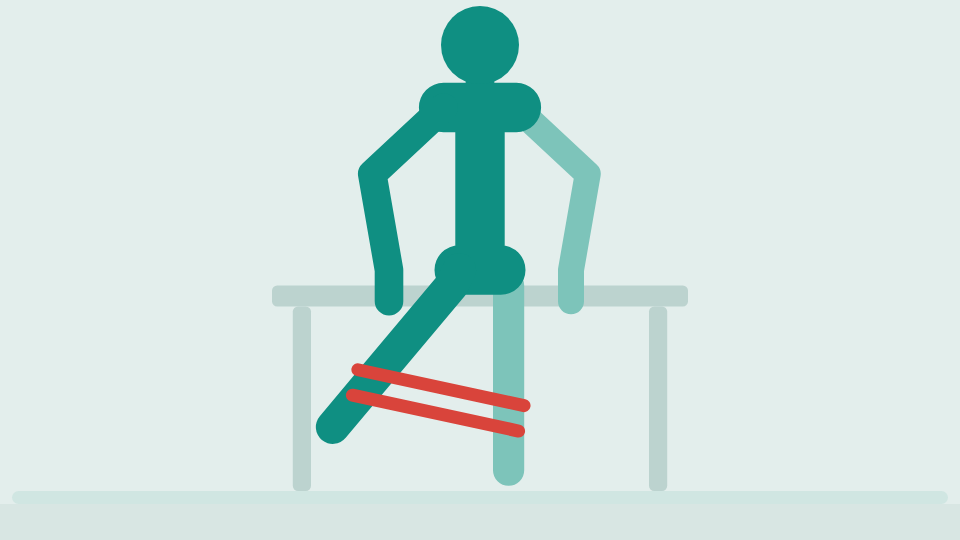
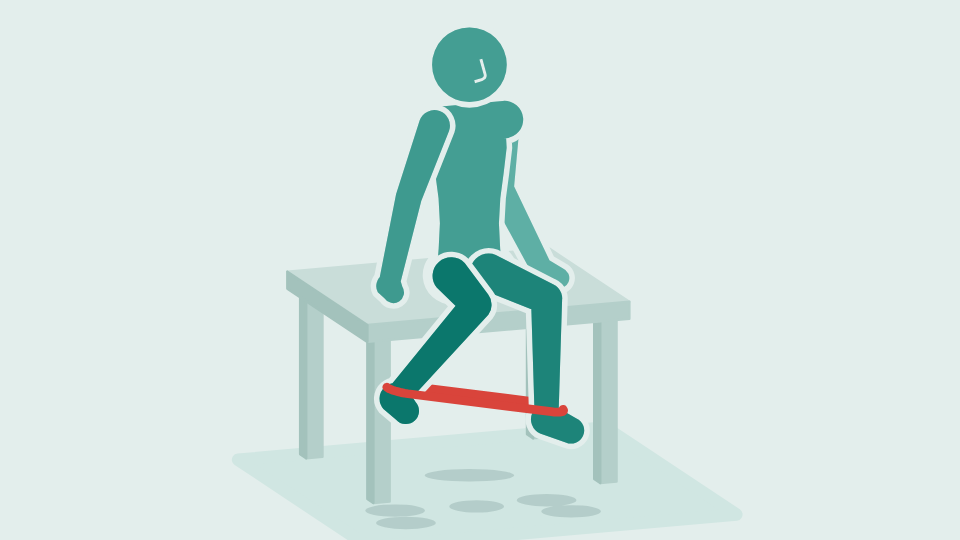
feat: add Seated Hip Internal Rotation exercise with mini band support and update related components

Changed region(s): [[0.2812, 0.0, 0.7188, 0.9778]]

diff --git a/src/lib/rig3d.ts b/src/lib/rig3d.ts
@@ -288,6 +288,12 @@ export type Clip3D = {
    * nose cut short.
    */
   nose?: false | 'drawIn';
+  /**
+   * A mini loop band around both ankles, or both knees, pulled tight between them: a loop around the
+   * outside of each leg and two strands across the gap (seated hip internal rotation). It's drawn in
+   * the strap's color, the strand in front over the legs and the one behind under them.
+   */
+  miniBand?: 'ankles' | 'knees';
 };
 
 export type HeldLimb = {
@@ -384,8 +390,10 @@ export type FigureFrame = {
   /** The body's parts, furthest from the camera first, which is the order to draw them in. */
   slots: FigureSlot[];
   shadow: string;
-  /** The clip's strap as a line to stroke, drawn over the figure. Empty without one. */
+  /** The clip's strap, and the front of its mini band, as a line to stroke, drawn over the figure. Empty without one. */
   strap: string;
+  /** The back of the clip's mini band, as a line to stroke, drawn under the figure. Empty without one. */
+  bandBehind: string;
   /** The clip's phone, drawn with the limb it's on. Empty paths without one. */
   phone: PhoneFrame;
   /** The dumbbell in each hand, drawn with its arm. Empty paths for a hand without one. */
@@ -1390,6 +1398,53 @@ export function strapPoints(skeleton: Skeleton, strap: NonNullable<Clip3D['strap
   ];
 }
 
+/** How far up the shin from the ankle a mini band around the ankles sits, and down the thigh from the knee one around the knees. */
+const MINI_BAND_ALONG = 10;
+/**
+ * How far a mini band keeps from the middle of each leg: past the leg's edge by half the band's own
+ * width, so it's drawn around the leg and not over it.
+ */
+const MINI_BAND_RADIUS = 14;
+/** How many straight pieces each half circle around a leg is drawn in. */
+const MINI_BAND_STEPS = 8;
+
+/**
+ * Where a mini loop band around both ankles or both knees runs in the room, as its two halves: each
+ * runs from the outside of one leg, around the side of it the camera sees or the side away, across
+ * the gap and around the other leg to its outside. The loop lies square to the legs, as near as one
+ * plane square to both can be, and stands clear of them, so it goes around them rather than across.
+ * The first half is the one nearer the camera.
+ */
+export function miniBandPoints(skeleton: Skeleton, view: Mat3, at: NonNullable<Clip3D['miniBand']>): [front: Vec3[], back: Vec3[]] {
+  'worklet';
+  const joint = at === 'ankles' ? 2 : 1;
+  const toward = at === 'ankles' ? 1 : 0;
+  const ring = (leg: readonly Vec3[]) => {
+    const up = unit(sub(leg[toward], leg[joint]), [0, 1, 0]);
+    return { middle: add(leg[joint], scaled(up, MINI_BAND_ALONG)), up };
+  };
+  const right = ring(skeleton.rightLeg);
+  const left = ring(skeleton.leftLeg);
+  // Across from the left leg to the right, and round the legs square to that and to the legs.
+  const across = unit(sub(right.middle, left.middle), skeleton.spineRight[0]);
+  let side = unit(cross(across, add(right.up, left.up)), skeleton.spineFront[0]);
+  // `side` faces the camera, so the first half is the near one.
+  if (project(view, side)[2] < 0) side = scaled(side, -1);
+  const half = (sign: number): Vec3[] => {
+    const points: Vec3[] = [];
+    for (let step = 0; step <= MINI_BAND_STEPS; step++) {
+      const angle = (step / MINI_BAND_STEPS) * (Math.PI / 2);
+      points.push(add(left.middle, add(scaled(across, -MINI_BAND_RADIUS * Math.cos(angle)), scaled(side, sign * MINI_BAND_RADIUS * Math.sin(angle)))));
+    }
+    for (let step = MINI_BAND_STEPS; step >= 0; step--) {
+      const angle = (step / MINI_BAND_STEPS) * (Math.PI / 2);
+      points.push(add(right.middle, add(scaled(across, MINI_BAND_RADIUS * Math.cos(angle)), scaled(side, sign * MINI_BAND_RADIUS * Math.sin(angle)))));
+    }
+    return points;
+  };
+  return [half(1), half(-1)];
+}
+
 /** A phone's size: about 15 by 7 by 1 cm, with a shin of 100 at about 40 cm. */
 export const PHONE = { length: 37, width: 18, depth: 3 };
 /** How far in from the phone's edge its screen starts. */
@@ -2011,6 +2066,7 @@ export function traceFigure(
     slots,
     shadow,
     strap: strapLine,
+    bandBehind: '',
     floor: '',
     phone: phoneShape(skeleton, view, phone, reading),
     dumbbells: {
@@ -2090,6 +2146,17 @@ function floorMarks(view: Mat3, travel: number, journey: number): string {
   return path;
 }
 
+/** Points in the room as a line on screen through them, to stroke. */
+function lineThrough(view: Mat3, points: readonly Vec3[]): string {
+  'worklet';
+  let line = '';
+  for (let i = 0; i < points.length; i++) {
+    const point = project(view, points[i]);
+    line += `${i === 0 ? 'M' : 'L'}${fixed(point[0])} ${fixed(point[1])}`;
+  }
+  return line;
+}
+
 /** The clip at a moment, drawn. */
 export function frameAt(clip: Clip3D, view: Mat3, timeMs: number): FigureFrame {
   'worklet';
@@ -2098,6 +2165,11 @@ export function frameAt(clip: Clip3D, view: Mat3, timeMs: number): FigureFrame {
   const skeleton = solvePose(clip.follow ? shiftedPose(pose, -travel) : pose);
   const behind = pose.behind ? (clip.behind ? [...clip.behind, ...pose.behind] : pose.behind) : clip.behind;
   const frame = traceFigure(skeleton, view, clip.highlight, clip.strap, clip.phone, clip.phone ? phoneReading(clip, skeleton) : undefined, clip.over, behind, clip.holds, clip.handsOnBody, clip.dumbbells, clip.nose ?? true);
+  if (clip.miniBand) {
+    const [front, back] = miniBandPoints(skeleton, view, clip.miniBand);
+    frame.strap += lineThrough(view, front);
+    frame.bandBehind = lineThrough(view, back);
+  }
   if (clip.follow) frame.floor = floorMarks(view, travel, travelOf(clip, clip.keyframes[clip.keyframes.length - 1].pose));
   return frame;
 }

diff --git a/src/lib/rig3d.test.ts b/src/lib/rig3d.test.ts
@@ -38,6 +38,7 @@ import {
   RESTING_COSSACK_SQUAT_3D,
   REVERSE_CLAMSHELLS_3D,
   REVERSE_SCORPION_3D,
+  SEATED_HIP_INTERNAL_ROTATION_3D,
   SEATED_PIKE_STRETCH_3D,
   SHOULDER_ABDUCTION_3D,
   SHOULDER_EXTERNAL_ROTATION_3D,
@@ -88,6 +89,7 @@ import {
   frameAt,
   framedJoints,
   HAND,
+  miniBandPoints,
   poseAt3,
   project,
   shiftedPose,
@@ -158,6 +160,13 @@ function angleAt(a: Vec3, b: Vec3, c: Vec3): number {
   const v = [c[0] - b[0], c[1] - b[1], c[2] - b[2]];
   const cos = (u[0] * v[0] + u[1] * v[1] + u[2] * v[2]) / (Math.hypot(...u) * Math.hypot(...v));
   return (Math.acos(Math.min(1, Math.max(-1, cos))) * 180) / Math.PI;
+}
+
+/** How far a point is from the nearest point on the line from `a` to `b`. */
+function distanceToSegment(point: Vec3, a: Vec3, b: Vec3): number {
+  const ab = [b[0] - a[0], b[1] - a[1], b[2] - a[2]];
+  const t = Math.max(0, Math.min(1, ((point[0] - a[0]) * ab[0] + (point[1] - a[1]) * ab[1] + (point[2] - a[2]) * ab[2]) / (ab[0] ** 2 + ab[1] ** 2 + ab[2] ** 2)));
+  return distance(point, [a[0] + ab[0] * t, a[1] + ab[1] * t, a[2] + ab[2] * t]);
 }
 
 /** How far a limb from `root` to `end` is turned from pointing straight down, in degrees. */
@@ -1654,6 +1663,54 @@ describe('3D clips', () => {
       previous = legs;
       expect(frameAt(clip, view, t).slots.find((slot) => slot.part === 'head')!.d.split('Z').filter((piece) => piece !== '')).toHaveLength(1);
     }
+  });
+
+  it('swings the right foot out to the side against a mini band round the ankles, the thigh turning in and the knee staying put, in seated hip internal rotation', () => {
+    const clip = SEATED_HIP_INTERNAL_ROTATION_3D;
+    expect(clip.miniBand).toBe('ankles');
+    const skeletons = samples(clip).map(solvePose);
+    const start = skeletons[0];
+    for (const { rightLeg, leftLeg, spine } of skeletons) {
+      // Sitting still, the left leg too, and the right knee stays where it is at 90°.
+      expect(distance(spine[0], start.spine[0])).toBeCloseTo(0);
+      leftLeg.forEach((joint, i) => expect(distance(joint, start.leftLeg[i])).toBeCloseTo(0));
+      expect(distance(rightLeg[1], start.rightLeg[1])).toBeCloseTo(0);
+      expect(angleAt(rightLeg[0], rightLeg[1], rightLeg[2])).toBeCloseTo(90, 0);
+    }
+    // Out, the right foot has swung away from the left one, out to the side, stretching the band.
+    const out = solvePose(clip.keyframes[clip.stillFrame].pose);
+    expect(out.rightLeg[2][2] - start.rightLeg[2][2]).toBeGreaterThan(40);
+    expect(distance(out.rightLeg[2], out.leftLeg[2])).toBeGreaterThan(distance(start.rightLeg[2], start.leftLeg[2]) + 40);
+    // Nothing changes places.
+    expect(new Set(drawOrders(clip)).size).toBe(1);
+  });
+
+  it('draws a mini band round both ankles: the half in front over the legs, the half behind under them, clear of the legs', () => {
+    const clip = SEATED_HIP_INTERNAL_ROTATION_3D;
+    const view = viewOf(clip.camera);
+    for (let t = 0; t <= durationOf(clip); t += 100) {
+      const skeleton = solvePose(poseAt3(clip, t));
+      const [front, back] = miniBandPoints(skeleton, view, 'ankles');
+      // The front half is nearer the camera than the back one.
+      const depth = (points: Vec3[]) => points.reduce((sum, point) => sum + project(view, point)[2], 0) / points.length;
+      expect(depth(front)).toBeGreaterThan(depth(back));
+      // Each half goes from the outside of the left leg round to the outside of the right one, and
+      // the two meet there, so the loop is closed.
+      expect(distance(front[0], back[0])).toBeCloseTo(0);
+      expect(distance(front[front.length - 1], back[back.length - 1])).toBeCloseTo(0);
+      // Every point stands clear of the shin it's round, past the shin's thickness at the ankle.
+      for (const point of [...front, ...back]) {
+        const nearest = Math.min(...[skeleton.rightLeg, skeleton.leftLeg].map((leg) => distanceToSegment(point, leg[1], leg[2])));
+        expect(nearest).toBeGreaterThan(10.5);
+      }
+      const frame = frameAt(clip, view, t);
+      expect(frame.strap).toMatch(/^M[-\d. ]+(L[-\d. ]+)+$/);
+      expect(frame.bandBehind).toMatch(/^M[-\d. ]+(L[-\d. ]+)+$/);
+    }
+    // A clip without one has neither.
+    const frame = frameAt(KNEE_TO_CHEST_3D, viewOf(KNEE_TO_CHEST_3D.camera), 0);
+    expect(frame.bandBehind).toBe('');
+    expect(frame.strap).toBe('');
   });
 
   it('folds to the floor, walks the hands out to a plank and the feet in after them, and stands up further along, the camera following, in inchworm', () => {

diff --git a/src/components/exercise-figure-3d.tsx b/src/components/exercise-figure-3d.tsx
@@ -210,6 +210,7 @@ export function ExerciseFigure3D({ clip, playing = true, paused = false }: { cli
   const frame = useDerivedValue(() => frameAt(clip, view, time.get()));
   const shadow = useAnimatedProps(() => ({ d: frame.get().shadow }));
   const strap = useAnimatedProps(() => ({ d: frame.get().strap }));
+  const bandBehind = useAnimatedProps(() => ({ d: frame.get().bandBehind }));
   const floor = useAnimatedProps(() => ({ d: frame.get().floor }));
 
   return (
@@ -234,10 +235,12 @@ export function ExerciseFigure3D({ clip, playing = true, paused = false }: { cli
             <Path d={stage.tape.marks} stroke={COLORS.tape.marks} strokeWidth={1.5} />
           </>
         )}
+        {/* The back of a mini band, under the legs, so it shows only between them. */}
+        {clip.miniBand && <AnimatedPath animatedProps={bandBehind} fill="none" stroke={COLORS.strap} strokeWidth={7} strokeLinejoin="round" strokeLinecap="round" />}
         {slots.map((index) => (
           <Slot key={index} frame={frame} index={index} trail={stage.trail} trailed={trailedPart(clip.trail)} phone={clip.phone !== undefined} dumbbells={clip.dumbbells !== undefined} />
         ))}
-        {clip.strap && <AnimatedPath animatedProps={strap} fill="none" stroke={COLORS.strap} strokeWidth={7} strokeLinejoin="round" strokeLinecap="round" />}
+        {(clip.strap || clip.miniBand) && <AnimatedPath animatedProps={strap} fill="none" stroke={COLORS.strap} strokeWidth={7} strokeLinejoin="round" strokeLinecap="round" />}
       </Svg>
       {clip.partner && <PartnerBadge />}
     </View>

diff --git a/src/data/exercise-animations-3d.ts b/src/data/exercise-animations-3d.ts
@@ -6012,3 +6012,29 @@ export const REVERSE_SCORPION_3D: Clip3D = {
   stillFrame: 1 + SCORPION_STEPS,
   keyframes: [{ ms: 0, pose: scorpionAt(1, 0) }, ...scorpionRep(1), ...scorpionRep(-1)],
 };
+
+// --- Seated hip internal rotation: on the edge of a table with a mini band around the ankles, one foot swings out to the side against it, the thigh turning in and the knee staying put ---
+
+/** The right foot out, the thigh turned in about as far as adults can (Hallaçeli 2014). */
+const SEATED_IR_OUT = seatedRotationAt(-HIP_ROTATION, 90);
+const SEATED_IR_IN = seatedRotationAt(0, 90);
+
+export const SEATED_HIP_INTERNAL_ROTATION_3D: Clip3D = {
+  view: '3d',
+  // From the front, where the shin's swing out to the side is flat on the screen and the band
+  // stretches across it, turned a little toward the moving leg and raised enough to see the table
+  // top the thighs rest on (as the hip rotation test).
+  camera: { yaw: 70, pitch: 14 },
+  highlight: ['rightLeg'],
+  scenery: TABLE,
+  miniBand: 'ankles',
+  // The foot out, the band stretched.
+  stillFrame: 2,
+  keyframes: [
+    { ms: 0, pose: SEATED_IR_IN },
+    { ms: 300, pose: SEATED_IR_IN },
+    { ms: 1200, pose: SEATED_IR_OUT },
+    { ms: 400, pose: SEATED_IR_OUT },
+    { ms: 1200, pose: SEATED_IR_IN },
+  ],
+};

diff --git a/src/data/exercises.ts b/src/data/exercises.ts
@@ -62,6 +62,7 @@ import {
   REVERSE_CLAMSHELLS_3D,
   REVERSE_SCORPION_3D,
   REVERSE_TABLETOP_3D,
+  SEATED_HIP_INTERNAL_ROTATION_3D,
   SEATED_PIKE_STRETCH_3D,
   SEATED_SHOULDER_EXTENSION_3D,
   SEATED_STRADDLE_SIDE_BEND_3D,
@@ -72,7 +73,6 @@ import {
 } from './exercise-animations-3d';
 
 import {
-  SEATED_HIP_INTERNAL_ROTATION,
   SHOULDER_PASS_THROUGHS,
   SIDE_LYING_EXTERNAL_ROTATION,
   SLEEPER_STRETCH,
@@ -1246,7 +1246,7 @@ const ALL_EXERCISES: Exercise[] = [
       'Bring it back and keep repeating, then switch sides. Take the band off to make it easier',
     ],
     photo: require('@/assets/images/exercises/seated-hip-internal-rotation.png'),
-    animation: SEATED_HIP_INTERNAL_ROTATION,
+    animation: SEATED_HIP_INTERNAL_ROTATION_3D,
     twoSided: true,
     active: true,
   },

diff --git a/README.md b/README.md
@@ -74,6 +74,7 @@ The old engine poses a flat figure in screen coordinates. Anything moving toward
 - **Draw order** is by depth every frame, and parts are shaded darker the nearer they are, with a background-colored outline so crossing limbs stay apart. The head is ordered against the part of a limb right beside it rather than the limb's average depth, so a head dropping between the arms (cat cow) stays behind the near arm. Limbs go over or under the torso the same way, by where they overlap it: the side of the body the shoulder or hip is on, unless part of the limb comes out clear of the torso's surface further out (an arm across the chest). Passing the middle of the torso isn't enough, or a far thigh lifting forward (marching) flips over the hips partway up. Averages put the high chest in front of a whole leg below it when the camera looks down, which tucked a leg swinging back behind the hips. Square to the camera (a figure seen straight from the front), arms go over the torso and legs under the hips. A clip can name limbs that stay over the torso regardless (`over`): the 90 to 90 rotations do for both legs, whose thighs come off the front of the hips toward the camera and lie out to the side without ever coming clear of them. Turn the camera a little toward the arm or leg that moves if the still one should tuck behind its shoulder or hip, as the shoulder tests do. The head goes over the torso unless the neck points well away from the camera; by average depth, a body lying away from the camera (overhead reach) covered the head and the neck showed through it. Two limbs on the same side of the torso that overlap go by which is in front where they cross, too: hands holding a raised shin (knee to chest) are in front of it there, though the leg lifted toward a camera above it is nearer on average. Where a hand moving to its target would really pass behind a limb, the order follows that, so route it around with a keyframe (knee to chest opens the hands either side of the knee before closing them on the shin). Where two limbs stay against each other, which is nearer is too close to call and they swap places from frame to frame, so a clip can say (`behind: [['rightArm', 'rightLeg']]` draws the first behind the second whenever both are on the same side of the torso): the bottom squat rotation does, to keep both arms in front of the legs. Pairing a limb with the torso keeps it on that side all the way through: `['leftLeg', 'torso']` keeps the Breakdancer's bent leg, which comes off the far hip, under the pelvis though its raised thigh would otherwise come over it, and `['torso', 'head']` keeps the head over the neck seen from behind and above (hip circles), where the back of the head covers the base of the neck though the head's middle is further away. Limbs that really change sides partway through take `behind` on the pose instead, which holds on the way from that pose to the next: in squat to stand the arms hang outside the thighs and end up inside the knees, so the poses from halfway into the fold on say so, and the change comes while the hands are swinging forward clear of the legs. Put such a change where the two limbs are well apart on screen, never where they overlap. The bottom squat names its thighs in `over`, so they stay over the hips standing as well as squatting rather than coming over them partway down, and its arms are `behind`-ordered in front of the thighs, so the elbows show pressing on the knees. Limbs are ordered whole, so an arm that goes behind a knee takes its hand with it; `holds: [{ hand: 'rightHand', limb: 'rightLeg' }]` draws that hand again on its own, over the limb it holds (squat to stand, where the fingers hook over the toes). With `forearm: true` the forearm is drawn again with it, for an arm hooked round another: in the cross-body shoulder stretch the right arm rests in the crook of the left elbow, the left upper arm behind it and the forearm in front, so `behind: [['leftArm', 'rightArm']]` puts the left arm behind and its forearm and hand come over the right arm. A hand resting on the body, reached round from the far side of it, works the same way: `handsOnBody: ['leftHand']` keeps that arm behind the torso the whole way, its shoulder end under the shoulder blade, and draws its forearm and hand again over the torso and legs (Blackburn, where the hands start and end on the lower back). Ordered whole, the far arm comes over the back with its hand, shoulder end and all, and jumps behind the body partway through the sweep. A `behind` pair can name the head as well, and then holds whichever side of the body the limb is on: in the neck side stretch the hand rests on top of the head with its elbow out behind it, so `['rightArm', 'head']` keeps the arm behind the head and `holds: [{ hand: 'rightHand', limb: 'head' }]` draws the hand again over it. With the elbow straight out to the side the forearm crossed the face instead: the head is big next to the arms.
 - **Scenery** (`scenery`) is blocks with their sides square to the room, each from one corner to the opposite one: a wall, a box, a table top and its legs. They're drawn behind the figure, over the mat and the shadows, so pick a camera that looks past the figure at them, not through them. For a wall or box the figure faces, that means from a little behind (knee to wall and sit and reach use a negative `yaw`). Scenery doesn't change the frame, so a wall can run off the top of it; the mat reaches under anything standing on the floor. Blocks are drawn far side first along whichever axis separates them, not by the distance to their middles, which put a table's front legs over its top.
 - **A strap** (`strap: 'rightFoot'`) loops around the ball of a foot with an end in each hand, drawn over the figure. Pin both hands, and keep them the same distance from the foot in every pose so the strap doesn't stretch (`strapHeldAt` in the clips file does this for the straight leg raise). `strap: { foot: 'rightFoot', hand: 'rightHand' }` puts both ends in one hand instead, for pulling a foot out to the side (back lying reverse pigeon); pin that hand. The loop goes in a half circle around the side of the foot away from the hand, standing clear of the foot so it's drawn around it and not across it. It stands in for a band there: it's drawn the same, and doesn't stretch.
+- **A mini band** (`miniBand: 'ankles'` or `'knees'`) is a loop pulled tight around both ankles, or both knees: a half circle around the outside of each leg and two strands across the gap, square to the legs and standing clear of them so it's drawn around them, not across them. It's drawn in the strap's color, the strand in front over the legs and the one behind under them, where it shows only between them (seated hip internal rotation). It stretches with the legs, so nothing needs pinning for it.
 - **What a test is measured with** goes where its instructions put it. `phone` holds it in a hand, in line with the forearm (`bone: 2`), or straps it to the upper arm or thigh (`bone: 0`) or forearm or shin (`bone: 1`), `at` that far along from the shoulder or hip, on the limb's `front`, `back`, `outside` or `inside`. The front of a leg is the kneecap's side, of an arm the side the elbow folds toward; a straight limb takes the body's front. A strapped phone has a strap around the limb behind it, like an armband, and on the far side of the limb it goes under it. Its screen shows the reading in seven-segment digits: how far the phone has turned since the clip's first pose, plus `startReading` (90 for overhead reach, which starts with the arm at the ceiling), so it reads the angle the test measures. `tape` lays a tape measure flat from one point to another, on the floor or a block's top, and the frame takes it in. Every flexibility test measured by angle has a phone, every one measured by distance a tape (`rig3d.test.ts` checks).
 - **Thumbs**: a hand is a plain round shape, the same either way up, so a hand pin can say which way the palm faces (`palm`), and the hand gets a thumb on the side it's really on. Sticking out of the hand, it's part of the hand's outline; turned toward the camera it's drawn again over the hand with its own outline, and turned away the hand hides it. Such a hand also has thin lines between its fingers, splitting it into four. They're spread across the hand's width, so they turn with it: apart with the back of the hand or the palm to the camera, closing up as it turns edge on, and gone once the fingers are one behind the other. Give `palm` in every pose or none, and turn it with the forearm (it faces the thigh with the arm hanging, the thumb forward). Only use it where which way the palm faces is what the exercise is about: it's what tells the manual extensor (palm down, thumb hidden) and flexor (palm up, thumb showing) forearm stretches apart.
 - **Fingers**: an arm's `fingers` (`{ knuckle, middle, tip }`, degrees of bend at each joint toward the palm) draws a hand with fingers that bend in place of the plain round one, at a real hand's size (`HAND` in `rig3d.ts`, about twice the plain hand's length), so use it with `fit: 'hands'`. The four fingers bend together, as one, and the hand is wide across the knuckles and thin from palm to back, so look at it along the knuckles, from the thumb's or the little finger's side, where the fingers are one behind the other and every bend shows in profile. The fingers bend toward the palm: an arm posed by its angles has the palm facing in, so palms facing each other keep the elbows at the shoulders' width; pin the hand with a `palm` to put it anywhere (finger tendon glides holds the hands up either side of the head, palms in, so the curled fingers stay clear of the face). A pinned hand without a `palm` has no fingers to bend.
@@ -116,7 +117,7 @@ Tip: the rig is plain TypeScript, so frames can be checked without a device. Imp
 
 These block some clips from moving over (see the list below):
 
-- stretchy bands and mini bands
+- stretchy bands
 - the breathing and the head trailing the body that the old engine adds to side views
 - a camera that moves during a clip, and phase labels ("hold", "exhale")
 - a limb drawn half in front of the torso and half behind it, beyond a forearm resting on the body (`handsOnBody`): limbs are otherwise ordered as a whole, so thread the needle will need limbs split
@@ -204,22 +205,22 @@ Moved to the new engine:
 | Pec stretch on the ground | Library | `PEC_STRETCH_ON_THE_GROUND_3D` |
 | Reverse clamshells | Library | `REVERSE_CLAMSHELLS_3D` |
 | Reverse scorpion | Library | `REVERSE_SCORPION_3D` |
+| Seated hip internal rotation | Library | `SEATED_HIP_INTERNAL_ROTATION_3D` |
 
 Still on the old engine (clip names in `exercise-animations.ts`). Where a clip needs something the new engine doesn't have yet, it's noted.
 
-All ten flexibility tests are on the new engine. The last six to move (knee to wall, the two seated hip rotations, sit and reach, knee to chest and straight leg raise) haven't been checked on a device yet, so their old clips are still in `exercise-animations.ts`; delete them once they have. The same goes for the three 90 to 90 clips in the library (`NINETY_TO_NINETY_ROTATIONS` has to stay either way: windshield wipers with knee lift is built on it), and for the two pancake clips (`PANCAKE_UP` has to stay either way: the seated straddle side bend is built on it), and for the active straight leg raise, ankle mobilization, the behind the back chest opener, back lying reverse pigeon, belly down foot splay, the five squats (bottom squat, bottom squat rotation, squat to stand, Cossack squat and resting Cossack squat), Blackburn, butterfly, cobra to prayer, downward facing dog, prayer pose, puppy pose, lying knee hug, lying hamstring stretch, seated pike stretch, three legged downward facing dog, standing forward fold, kneeling wrist stretch, floor angels, reverse tabletop, knight stretch, horse stance, the lying windshield wiper hold, frog stretch, frog rocks, knight to hamstring, couch stretch, pyramid stretch, wrist rocks, elephant walk, the seated straddle side bend, seated shoulder extension, the half kneeling frog stretch, the neck side stretch, the cross-body shoulder stretch, the overhead triceps stretch, cow face arms, the pigeon stretch, hip circles, the Breakdancer, scap mobilization, the lizard pose, the figure four stretch, the two manual forearm stretches, downward facing dog to cobra, Cuban rotation, the half spinal twist, the half-twisted lizard, open book, inchworm, the pec stretch on the ground, reverse clamshells, reverse scorpion and finger tendon glides (`FINGER_TENDON_GLIDES` is still checked by `figure-rig.test.ts` and `exercise-video.test.tsx` until then).
+All ten flexibility tests are on the new engine. The last six to move (knee to wall, the two seated hip rotations, sit and reach, knee to chest and straight leg raise) haven't been checked on a device yet, so their old clips are still in `exercise-animations.ts`; delete them once they have. The same goes for the three 90 to 90 clips in the library (`NINETY_TO_NINETY_ROTATIONS` has to stay either way: windshield wipers with knee lift is built on it), and for the two pancake clips (`PANCAKE_UP` has to stay either way: the seated straddle side bend is built on it), and for the active straight leg raise, ankle mobilization, the behind the back chest opener, back lying reverse pigeon, belly down foot splay, the five squats (bottom squat, bottom squat rotation, squat to stand, Cossack squat and resting Cossack squat), Blackburn, butterfly, cobra to prayer, downward facing dog, prayer pose, puppy pose, lying knee hug, lying hamstring stretch, seated pike stretch, three legged downward facing dog, standing forward fold, kneeling wrist stretch, floor angels, reverse tabletop, knight stretch, horse stance, the lying windshield wiper hold, frog stretch, frog rocks, knight to hamstring, couch stretch, pyramid stretch, wrist rocks, elephant walk, the seated straddle side bend, seated shoulder extension, the half kneeling frog stretch, the neck side stretch, the cross-body shoulder stretch, the overhead triceps stretch, cow face arms, the pigeon stretch, hip circles, the Breakdancer, scap mobilization, the lizard pose, the figure four stretch, the two manual forearm stretches, downward facing dog to cobra, Cuban rotation, the half spinal twist, the half-twisted lizard, open book, inchworm, the pec stretch on the ground, reverse clamshells, reverse scorpion, seated hip internal rotation and finger tendon glides (`FINGER_TENDON_GLIDES` is still checked by `figure-rig.test.ts` and `exercise-video.test.tsx` until then).
 
 Library (`src/data/exercises.ts`):
 
 | Exercise | Clip | Needs |
 |---|---|---|
-| Seated hip internal rotation | `SEATED_HIP_INTERNAL_ROTATION` | mini band |
 | Shoulder pass-throughs | `SHOULDER_PASS_THROUGHS` | |
 | Side-lying external rotation | `SIDE_LYING_EXTERNAL_ROTATION` | dumbbell |
 | Sleeper stretch | `SLEEPER_STRETCH` | |
 | The Sagittarius | `THE_SAGITTARIUS` | |
 | Thread the needle | `THREAD_THE_NEEDLE` | limbs split in front of and behind the torso |
-| Windshield wipers with knee lift | `WINDSHIELD_WIPERS_WITH_KNEE_LIFT` | mini band |
+| Windshield wipers with knee lift | `WINDSHIELD_WIPERS_WITH_KNEE_LIFT` | |
 | World's greatest stretch | `WORLDS_GREATEST_STRETCH` | |
 
 ## Exercise reminders
